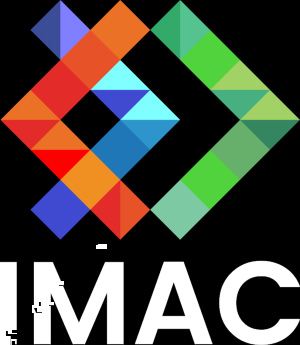
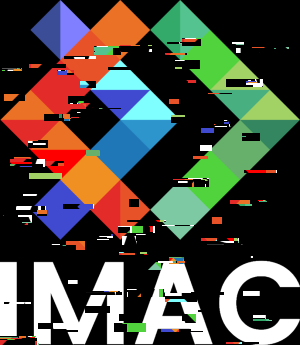
OP Glitch

diff --git a/src/main.cpp b/src/main.cpp
@@ -249,19 +249,25 @@ void mosaique(sil::Image image)
 
 void glitch(sil::Image image) 
 {
-    int glitchLvl = random_int(1, 10);
+    sil::Image glitchedLogo{"images/logo.png"};
+
+    int glitchLvl = random_int(1, 100);
 
     for (int repetitions = 0; repetitions < glitchLvl; repetitions++)
     {
-        int xRectangle = random_int(1, 20);
-        int yRectangle = random_int(1, 10);
-        int gapBetweenPixels = random_int(1, 100);
+        int startingPointX = random_int(0, image.width() - 40);
+        int startingPointY = random_int(0, image.height() - 40);
+        int newPointX = random_int(0, image.width() - 40);
+        int newPointY = random_int(0, image.height() - 40);
+        
+        int widthRectangle = random_int(10, 40);
+        int heightRectangle = random_int(1, 10);
 
-        for (int x{0}; x < xRectangle; x++)
+        for (int x{0}; x < widthRectangle; x++)
         {
-            for (int y{0}; y < yRectangle; y++)
+            for (int y{0}; y < heightRectangle; y++)
             {
-                std::swap(image.pixel(x, y), image.pixel(x + gapBetweenPixels, y + gapBetweenPixels));
+                std::swap(image.pixel(x, y), image.pixel(startingPointX + x, startingPointY + y));
             }
         }
     }
@@ -291,7 +297,9 @@ int main()
     Luminosite(photo);
     disque(image_noire);
     cercle(image_noire);
-    mosaique(logo);*/
+    mosaique(logo);
+    
+    std::swap(image.pixel(x, y), image.pixel(startingPointX + x, startingPointY + y));*/
 
     glitch(logo);
 }
